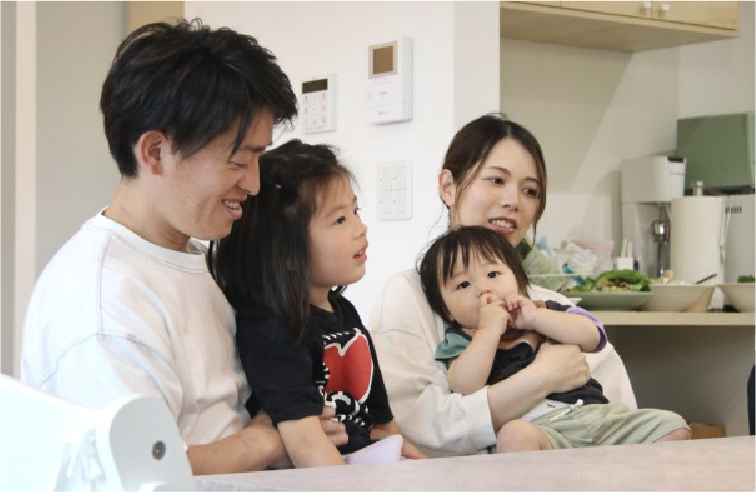
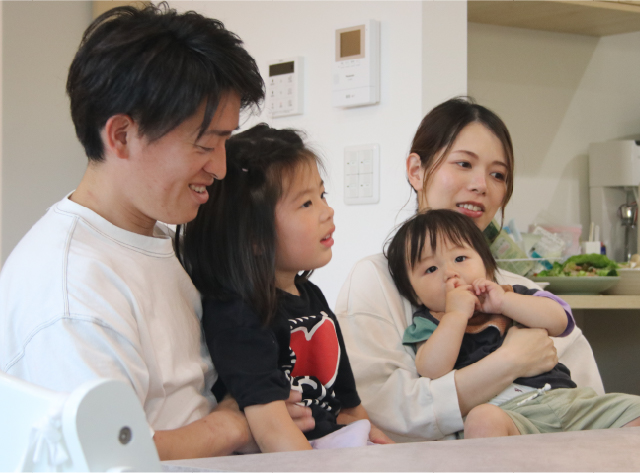
update

diff --git a/src/kodate/bunjo-halforder.php b/src/kodate/bunjo-halforder.php
@@ -628,6 +628,37 @@ require $kaisou . "temp_php/basic.php";
 
                     <li class="BHO-voice__item">
                         <div class="img">
+                            <img src="images/bunjohalforder/voice-5.jpg" alt="" />
+                        </div>
+                        <div class="txt">
+                            <h3 class="voice">二人暮らしの１LDKが、一軒家を考えるきっかけに</h3>
+                            <div class="data">岐阜県　T様／ご家族構成：ご夫婦</div>
+                        </div>
+                        <div class="btn">
+                            <a href="https://www.toshinjyuken.co.jp/kodate/voice-detail.php?case=52" target="_blank">詳しく見る</a>
+                        </div>
+                    </li>
+
+                    <li class="BHO-voice__item">
+                        <div class="img">
+                            <img src="images/bunjohalforder/voice-6.jpg" alt="" />
+                        </div>
+                        <div class="txt">
+                            <h3 class="voice">マンションでは、叶えられなかった猫と犬との暮らし</h3>
+                            <div class="data">豊田市　M様／ご家族構成：お母さま、<br>
+                                ご長男、お祖母さま、愛猫9匹、愛犬1匹
+                            </div>
+                        </div>
+                        <div class="btn">
+                            <a href="https://www.toshinjyuken.co.jp/kodate/voice-detail.php?case=45" target="_blank">詳しく見る</a>
+                        </div>
+                    </li>
+
+
+
+
+                    <li class="BHO-voice__item">
+                        <div class="img">
                             <img src="images/bunjohalforder/voice-2.jpg" alt="" />
                         </div>
                         <div class="txt">
@@ -786,7 +817,6 @@ require $kaisou . "temp_php/basic.php";
 
         <script>
             $(".slider").slick({
-                autoplay: true,
                 arrows: false,
                 fade: true,
                 asNavFor: ".thumbnail",
@@ -797,7 +827,6 @@ require $kaisou . "temp_php/basic.php";
                 focusOnSelect: true,
             });
             $(".slider2").slick({
-                autoplay: true,
                 arrows: false,
                 fade: true,
                 asNavFor: ".thumbnail2",

diff --git a/src/kodate/temp_php/basic.php b/src/kodate/temp_php/basic.php
@@ -365,8 +365,7 @@ $temp_header = '<header class="l-header">
 								</li>
 								<li>
 									<a href="bunjo-halforder.php"
-										>インテリアセレクト<br />
-										ハーフオーダー</a
+										>ハーフオーダー</a
 									>
 								</li>
 								<li>
@@ -532,7 +531,7 @@ $temp_footer = '
 
 					<ul class="fnav__list">
 						<li class="fnav__item"><a href="' . $link_list['TOP'][0] . '#brand">ブランドコンセプト</a></li>
-						<li class="fnav__item"><a href="bunjo-halforder.php" target="_blank">インテリアセレクト / ハーフオーダー</a></li>
+						<li class="fnav__item"><a href="bunjo-halforder.php" target="_blank">ハーフオーダー</a></li>
 						<li class="fnav__item"><a href="sdgs.php">SDGsへの取り組み</a></li>
 						<li class="fnav__item"><a href="qa.php">Q&A</a></li>
 					</ul>
